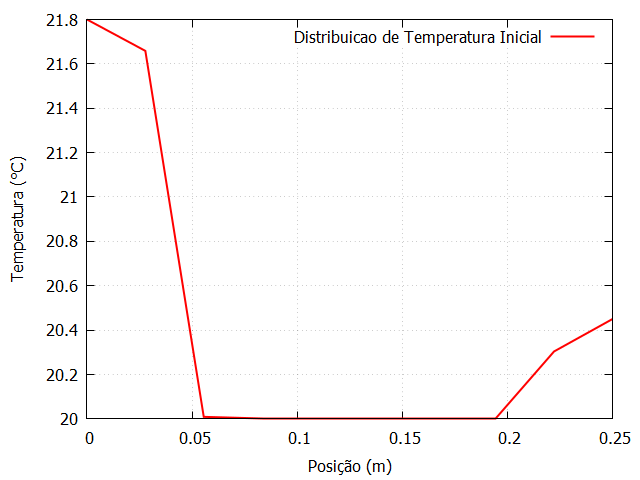
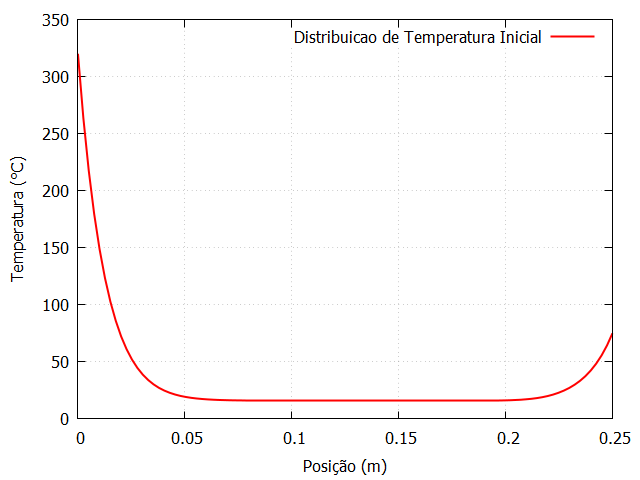
Correção do parâmetro gamma

diff --git a/Trabalho 1/src/main.cpp b/Trabalho 1/src/main.cpp
@@ -19,7 +19,7 @@ constexpr double T_amb{20.0};                         // temperatura do ambiente
 constexpr double T_0 {320.0};                         // temperatura da aleta em x=0
 constexpr double T_n {75.0};                          // temperatura da aleta em x=L
 constexpr double L {0.25};                            // comprimento da aleta
-constexpr int N {10};                                 // número de nós em x
+constexpr int N {100};                                 // número de nós em x
 //constexpr int nsteps {100};
 
 int main(int argc, char* argv[]){
@@ -28,7 +28,7 @@ int main(int argc, char* argv[]){
 	constexpr auto P = NPI*D;                                                // perímetro da aleta
 	constexpr auto m2 = (h*P)/(kappa*A);
 	constexpr auto dx = L/(N-1);                                             // comprimento do intervalo em x
-	constexpr auto gamma = dx*m2;
+	constexpr auto gamma = dx*dx*m2;
 
 	std::vector<std::vector<double>> G(N, std::vector<double>(N, 0.0));      // matriz de coeficientes NxN, inicializada em 0.0
 	std::vector<double> X(N, 0.0);                                           // vetor onde serão armazenadas as temperaturas
@@ -38,6 +38,10 @@ int main(int argc, char* argv[]){
 
 	fill_coef(G, gamma);
 	fill_b(B, gamma);
+
+	//print_array_1D(B);
+	//print_array_2D(G);
+
 	GS_Solver<double>(G, B, X);
 	save_data(X, Pos);
 
